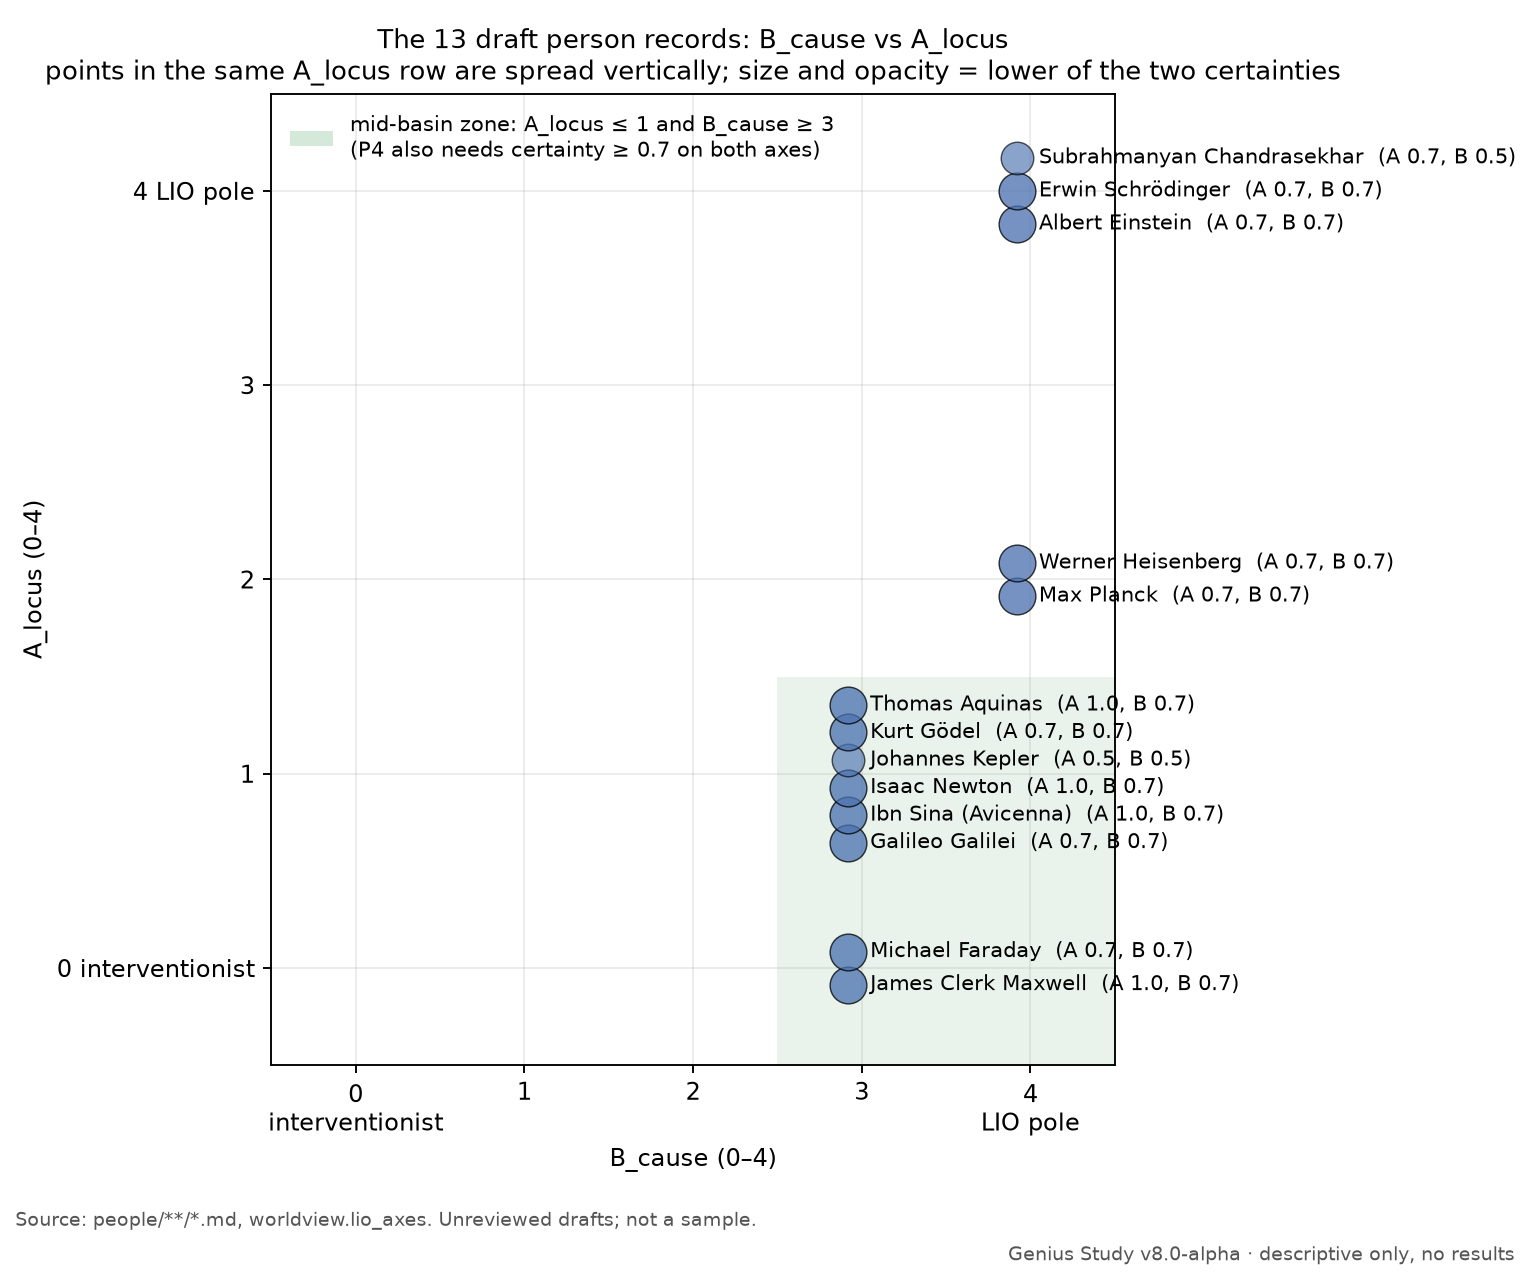
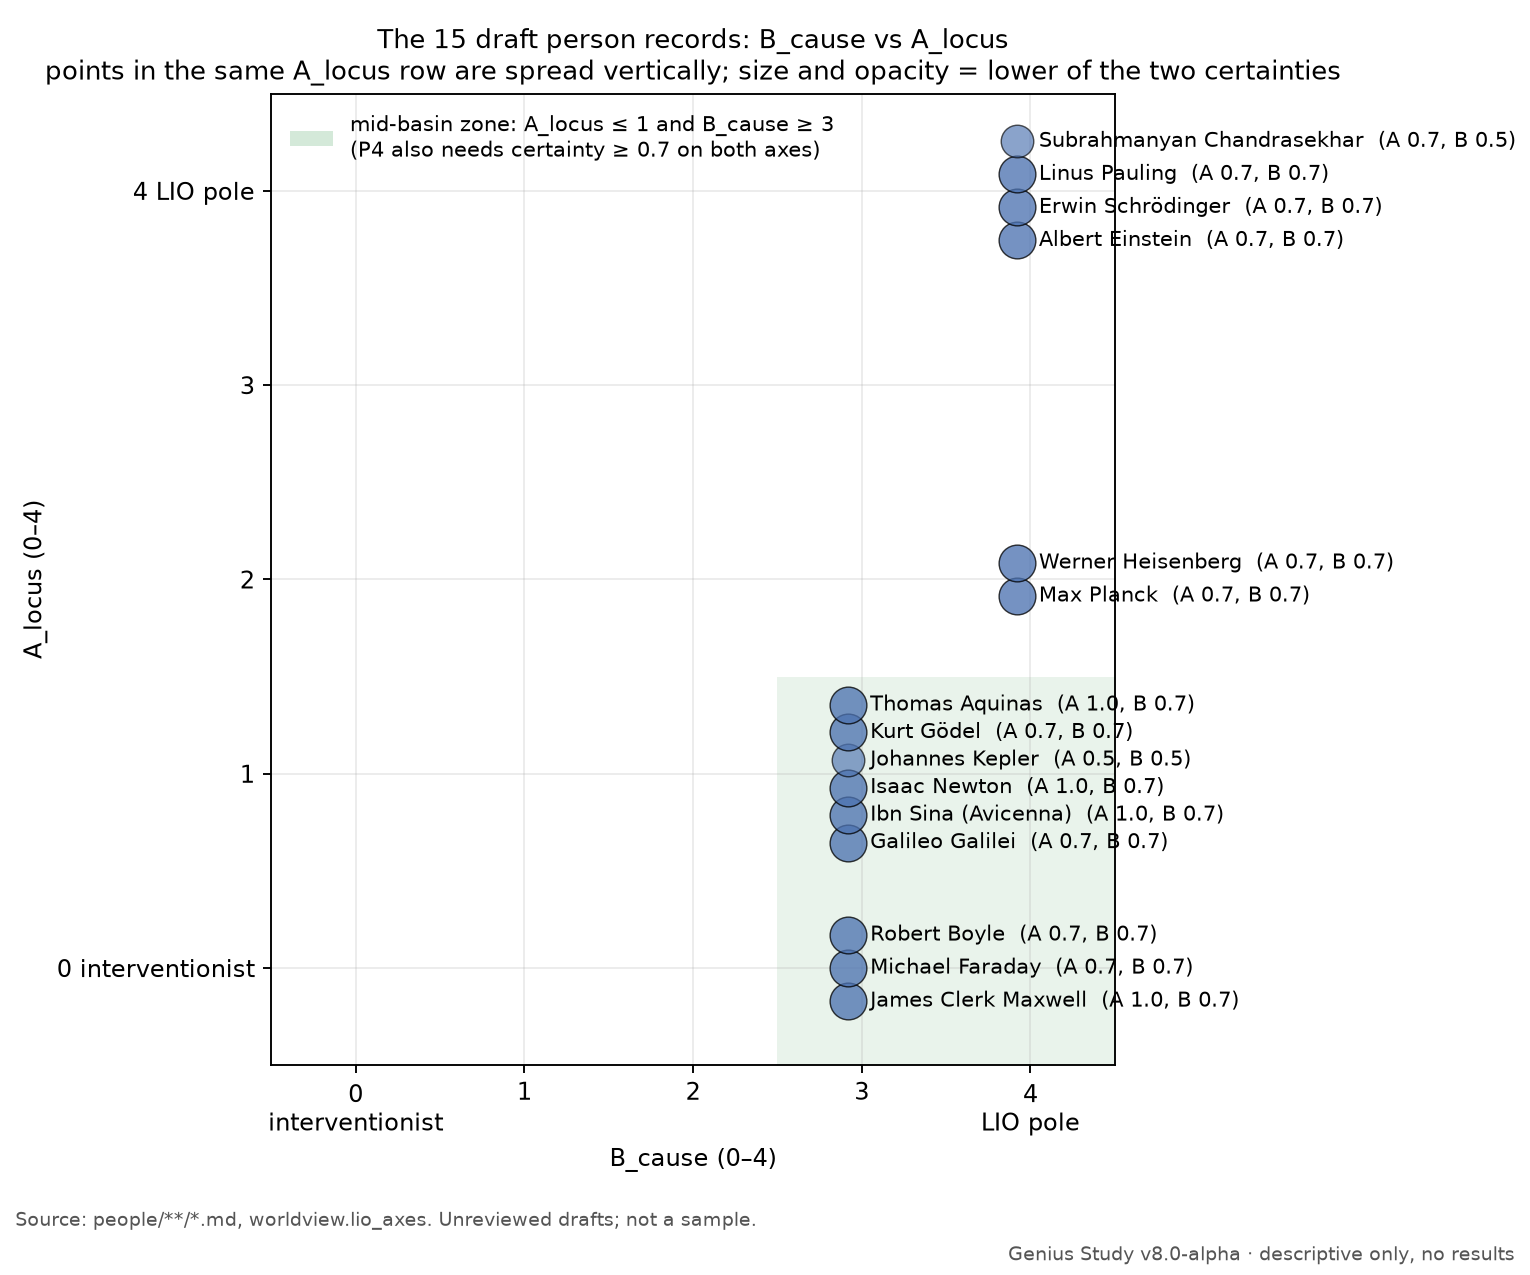
Batch 4: CHANGELOG, systems sourcing backlog, README progress (31/441), regenerate person figure

Changed region(s): [[0.6451, 0.0918, 1.0, 0.2141], [0.5222, 0.7035, 0.8294, 0.7953]]

diff --git a/CHANGELOG.md b/CHANGELOG.md
@@ -131,6 +131,18 @@ Sourced drafts of the systems the first-pool people are most likely to be coded 
   - **Werner Heisenberg** (3): §7 cap notes rewritten under P9; record_version corrected (the `1f3c4bf` fix had not raised it). No score changed.
   - **Louis Pasteur** (2): death place Marnes-la-Coquette (Villeneuve-l'Étang estate) at 0.5, Saint-Cloud as the alternative (certainty 0.7 → 0.5; new source S6, EPHE prosopographical notice); era how_known rewritten (value unchanged); French spiritualism named as a candidate without a code. No worldview score changed.
   - Figure `people_cause_locus.png` regenerated (Chandrasekhar's A certainty label).
+- **2026-10-02, batch 4 coded people** (commits `2f7a6b9` through `0fd35d2`, plus fix `456761e`; all `draft — unreviewed`): nine more people in the 1600–1950 physical-science pool, under schema 1.2 and decisions P8 and P9. Validators pass (31 person files); figure `people_cause_locus.png` regenerated.
+  - **Edwin Hubble** (`2f7a6b9`, `people/h/hubble-edwin.md`): primary_system BELOW_THRESHOLD (AGNOS candidate, stub). B 4 and D 2 at 0.7 (D alternative 3) from his Nature of Science lectures (Internet Archive scan, capped at 0.7 under §7); A, C, E BELOW_THRESHOLD; mid_basin BELOW_THRESHOLD.
+  - **Robert Boyle** (`523d680`, `people/b/boyle-robert.md`): primary_system CHRIST at 0.7 (CLTHEI named; CLASS_THEISM rejected), from A Free Enquiry (1686) and The Christian Virtuoso (1690) in the Text Creation Partnership transcriptions. A 0, B 3, C 0, D 2, E 3, all at 0.7; mid_basin true at 0.7.
+  - **Richard Feynman** (`7ecc42d`, fix `456761e`, `people/f/feynman-richard.md`): included by owner decision, borderline on the stage-2 date window. primary_system AGNOS at 0.7 (stub; ATHE named), from "The Relation of Science and Religion" (Engineering and Science, June 1956, pp. 20–23, page images checked; capped at 0.7 because the talk speaks through an imagined student and panel). B 4, D 2 and E 4 at 0.7; A, C BELOW_THRESHOLD; mid_basin BELOW_THRESHOLD. The fix notes in the open questions that his AIP oral history carries a no-quotation notice and so cannot score on its own.
+  - **Linus Pauling** (`adf9d4b`, `people/p/pauling-linus.md`): primary_system SECHUM at 0.7 (stub; ATHE named, stub), from "Humanism and Peace" (17 March 1961) and his 23 January 1963 letter (signed for him by his secretary), both in Oregon State University's transcriptions. A, B, C, D and E all 4 at 0.7; mid_basin false at 0.7.
+  - **J. Robert Oppenheimer** (`773cb68`, fix `206a4c6`, `people/o/oppenheimer-j-robert.md`): primary_system BELOW_THRESHOLD (ETHCUL candidate, stub; HINDU rejected). B 4 at 0.5 from his working science (P6) and the 1945 farewell speech; A, C, D, E BELOW_THRESHOLD; mid_basin BELOW_THRESHOLD. The fix removes SCIENT from the candidates (SCIENT is Scientology, not scientism); no code fits his professional faith in science.
+  - **Henrietta Swan Leavitt** (`e398f52`, `people/l/leavitt-henrietta-swan.md`): primary_system BELOW_THRESHOLD (CHRIST candidate). Nominal affiliation from Bailey's 1922 obituary at 0.7 (a colleague's paraphrase; it scores nothing under P9). B 4 at 0.5 (P6); A, C, D, E BELOW_THRESHOLD; mid_basin BELOW_THRESHOLD.
+  - **Rudolf Clausius** (`07bab4f`, `people/c/clausius-rudolf.md`): primary_system BELOW_THRESHOLD (no candidate; his father was a pastor). B 4 at 0.5 (P6); A, C, D, E BELOW_THRESHOLD; mid_basin BELOW_THRESHOLD.
+  - **Willard Libby** (`5d57849`, `people/l/libby-willard.md`): included by owner decision, borderline on the stage-2 date window. primary_system BELOW_THRESHOLD (no candidate). B 4 at 0.5 (P6); A, C, D, E BELOW_THRESHOLD; mid_basin BELOW_THRESHOLD.
+  - **Dorothy Hodgkin** (`0fd35d2`, `people/h/hodgkin-dorothy.md`): included by owner decision, borderline on the stage-2 date window. primary_system BELOW_THRESHOLD (no candidate; Perutz's memorial remark that she was "more Christian in word and deed than many believers" is another person's view and scores nothing). B 4 at 0.5 (P6); A, C, D, E BELOW_THRESHOLD; mid_basin BELOW_THRESHOLD.
+  - **Interviews (P8, and Jason's 2026-10-02 flag rule):** the only interview used is Oppenheimer's recorded remark in the NBC documentary The Decision to Drop the Bomb (1965), a published broadcast. It supports one statement and the HINDU rejection, scores nothing, and every field resting on it is marked "(interview)" in its human-readable note. No AIP oral history is quoted or used to score anything (relevant to Feynman, Oppenheimer and Pauling): AIP transcripts that carry a no-quotation notice cannot score an axis or code on their own (P8; lens batch 3 audit).
+  - **Open decisions raised:** (1) SECHUM or ATHE for a self-described Humanist who also says "I do not believe in God" (Pauling; coded SECHUM under the v7.1 rule). (2) May a colleague's obituary paraphrase of church attachment support a nominal_affiliation at 0.7 while scoring nothing (Leavitt)? (3) Do Text Creation Partnership keyboarded transcriptions count as authoritative copies under §7 (Boyle; treated as authoritative)? (4) Should a Marxist or communist humanism system be proposed (Hodgkin's politics, Dodson 2002, pp. 213–215)?
 - **2026-10-02, James Clerk Maxwell** (`people/m/maxwell-james-clerk.md`, draft — unreviewed): new person record from his letters, essays and 1873 "Molecules" lecture (via Campbell and Garnett 1882 and the 1890 Scientific Papers), Britannica, MacTutor and Hutchinson. Primary system CHRIST (0.7). A_locus 0 and B_cause 3 (physics) at 1.0, so `mid_basin` is true under P4; C_ledger 1 and D_authority 2 at 0.7; E_scope TODO. Quotes checked word for word against the fetched texts.
 - **2026-10-02, Isaac Newton** (`people/n/newton-isaac.md`, draft — unreviewed): new person record from the General Scholium, Opticks Query 31, the Principia's Rules of Reasoning, two letters to Bentley and three private theological manuscripts (Newton Project), plus Britannica, MacTutor and two SEP entries. Primary system CHRIST (0.7), CLTHEI a close second. A_locus 1, B_cause 3 (natural philosophy) and E_scope 3 at 1.0, so `mid_basin` is true under P4; C_ledger 0 and D_authority 2 at 0.7. Quotes checked word for word against the fetched texts.
 - **2026-10-02, Thomas Aquinas** (`people/a/aquinas-thomas.md`, draft — unreviewed): new person record from thirteen questions of the Summa theologiae (1920 English Dominican translation, New Advent), Britannica (Chenu), SEP (Pasnau) and IEP (Brown). Primary system CLASS_THEISM (1.0). A_locus 1, B_cause 2, C_ledger 1, D_authority 1, E_scope 2, all at 1.0 from written profession. `mid_basin` UNKNOWN: P4 has no branch for B_cause = 2 at high certainty (flagged as an open question). Quotes checked word for word against the fetched texts.

diff --git a/systems/README.md b/systems/README.md
@@ -13,11 +13,17 @@ One file per belief system: `systems/<CODE>.md`, where the code is the v7.1 abbr
 
 Stubs to source next, in this order (decision S7, 2026-10-02). These three are the candidate codes the people records most often cannot use because the file is still a stub:
 
-1. [`ATHE.md`](ATHE.md), Atheism: candidate or code for Bohr, Chandrasekhar and Dirac.
-2. [`AGNOS.md`](AGNOS.md), Agnosticism: named alternative for Bohr and Dirac.
+1. [`ATHE.md`](ATHE.md), Atheism: candidate or code for Bohr, Chandrasekhar and Dirac; named alternative for Feynman and Pauling (batch 4).
+2. [`AGNOS.md`](AGNOS.md), Agnosticism: named alternative for Bohr and Dirac; code for Feynman and candidate for Hubble (batch 4).
 3. [`IDEAL.md`](IDEAL.md), Idealism: candidate for Pasteur.
 
-After these, the other stubs, in the order the people records need them. Extending a record: `docs/RUNBOOK.md` §8.
+After these, the other stubs, in the order the people records need them. Batch 4 (2026-10-02) also needs:
+
+- [`SECHUM.md`](SECHUM.md), Secular humanism: code for Pauling.
+- [`ETHCUL.md`](ETHCUL.md), Ethical Culture: candidate for Oppenheimer.
+- [`HINDU.md`](HINDU.md): rejected for Oppenheimer (so it matters less).
+
+Extending a record: `docs/RUNBOOK.md` §8.
 
 ## Systems to consider (proposed codes, decision S4)
 
@@ -26,6 +32,7 @@ The code list is closed for v8, so these are not files. Each entry gives the cod
 | Proposed system | Why | Example people |
 |---|---|---|
 | French spiritualism (*spiritualisme*; Victor Cousin's school: God, the soul, freedom) | Pasteur's 1882 Académie française speech defends "la doctrine spiritualiste" by name; none of the 77 codes fits it well (CHRIST and IDEAL are only partial fits). Added by decision S7. | Louis Pasteur |
+| Marxist or communist humanism (socialist ethics without religion) | Dorothy Hodgkin's memoir (Dodson 2002, pp. 213–215) describes her socialist sympathies and her sympathy for 'the communist regime's social ideas and aspirations'; none of the 77 codes is a political creed, and political views are not coded now. Proposed in batch 4 (optional; Jason to decide). | Dorothy Hodgkin |
 
 To regenerate stubs, if a stub file is lost:
 

diff --git a/README.md b/README.md
@@ -16,7 +16,7 @@ A study of where remembered genius sits on a scale of lawful, non-intervening or
 | Item | Status |
 |---|---|
 | Roster people | 1,380: 441 core, 33 provisional, 17 review, 889 new names still need a status |
-| People coded (of core) | 22 / 441 (draft, unreviewed) |
+| People coded (of core) | 31 / 441 (draft, unreviewed) |
 | Belief systems sourced | 9 / 77 (the rest are stubs) |
 | Decisions settled | 24 / 24 |
 | Audits | 5 blind lens runs on two batches: 3 on a 115-claim packet (eff4700) and 2 on a 147-claim packet (e648145); see [reports/audit_2026-10-02.md](reports/audit_2026-10-02.md) |
